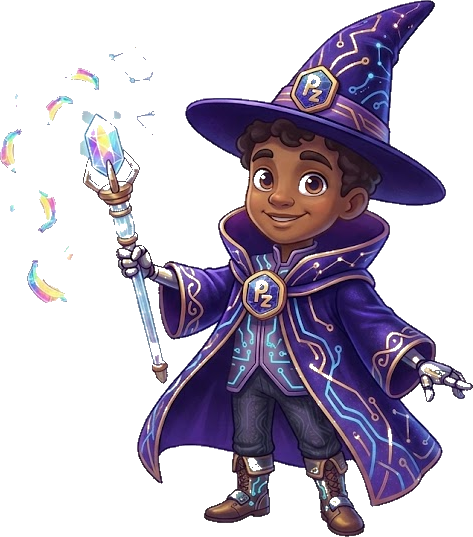
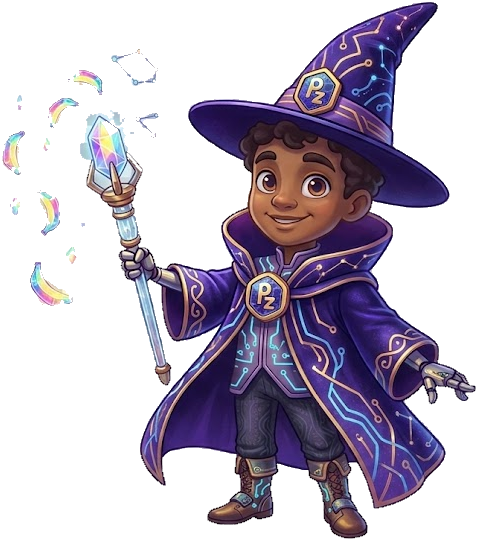
Add Archimage multi-answer validation, UI tweaks and asset fixes
- Accept all grammatically correct combinations in Archimage level
  using agreement groups (subject/object validated independently)
- Replace Playfair Display font with Fredoka One for playful title
- Clean wizard.png: remove checkerboard background, preserve full staff
- Hide wizard character, make cat static and reposition on barrel
- Adjust cauldron sparkle/explode image sizes

diff --git a/script.js b/script.js
@@ -289,6 +289,21 @@ const EXERCISES = [
       { choices: ["une", "un", "des", "le"], correct: "une" },
       { choices: ["potion", "potions", "poison", "potionnes"], correct: "potion" },
     ],
+    agreementGroups: [
+      { slots: [0, 1, 2], valid: [
+        ["La", "sorcière", "prépare"],
+        ["Le", "sorcier", "prépare"],
+        ["Les", "sorcières", "préparent"],
+        ["Les", "sorciers", "préparent"],
+        ["Un", "sorcier", "prépare"],
+      ]},
+      { slots: [3, 4], valid: [
+        ["une", "potion"],
+        ["un", "poison"],
+        ["des", "potions"],
+        ["le", "poison"],
+      ]},
+    ],
     successMsg: "La sorcière te félicite ! 🧙♀✨",
     failMsg: "La potion tourne au vinaigre ! 💥",
   },
@@ -303,6 +318,18 @@ const EXERCISES = [
       { choices: ["des", "de", "les", "une"], correct: "des" },
       { choices: ["flammes", "flamme", "flammés", "flammées"], correct: "flammes" },
     ],
+    agreementGroups: [
+      { slots: [0, 1, 2], valid: [
+        ["Le", "dragon", "crache"],
+        ["Les", "dragons", "crachent"],
+        ["Des", "dragons", "crachent"],
+      ]},
+      { slots: [3, 4], valid: [
+        ["des", "flammes"],
+        ["les", "flammes"],
+        ["une", "flamme"],
+      ]},
+    ],
     successMsg: "Les dragons t'acclament ! 🐉🔥",
     failMsg: "Les dragons sont déçus ! 💥",
   },
@@ -316,6 +343,15 @@ const EXERCISES = [
       { choices: ["chat", "chatte", "chats", "chattes"], correct: "chat" },
       { choices: ["noir", "noire", "noirs", "noires"], correct: "noir" },
       { choices: ["dort", "dorment", "dors", "dormons"], correct: "dort" },
+    ],
+    agreementGroups: [
+      { slots: [0, 1, 2, 3, 4], valid: [
+        ["Le", "petit", "chat", "noir", "dort"],
+        ["La", "petite", "chatte", "noire", "dort"],
+        ["Les", "petits", "chats", "noirs", "dorment"],
+        ["Les", "petites", "chattes", "noires", "dorment"],
+        ["Un", "petit", "chat", "noir", "dort"],
+      ]},
     ],
     successMsg: "Le chat ronronne de bonheur ! 🐱💤",
     failMsg: "Le chat s'enfuit ! 💥",
@@ -332,6 +368,19 @@ const EXERCISES = [
       { choices: ["des", "de", "les", "une"], correct: "des" },
       { choices: ["potions", "potion", "potionnes", "potionnés"], correct: "potions" },
     ],
+    agreementGroups: [
+      { slots: [0, 1, 2, 3], valid: [
+        ["La", "grande", "sorcière", "prépare"],
+        ["Le", "grand", "sorcier", "prépare"],
+        ["Les", "grandes", "sorcières", "préparent"],
+        ["Les", "grands", "sorciers", "préparent"],
+      ]},
+      { slots: [4, 5], valid: [
+        ["des", "potions"],
+        ["les", "potions"],
+        ["une", "potion"],
+      ]},
+    ],
     successMsg: "Le cercle de sorcières applaudit ! 🧙♀🧙♀✨",
     failMsg: "Le cercle est rompu ! 💥",
   },
@@ -347,6 +396,21 @@ const EXERCISES = [
       { choices: ["préparé", "préparée", "préparés", "préparées"], correct: "préparé" },
       { choices: ["une", "un", "des", "le"], correct: "une" },
       { choices: ["potion", "potions", "poison", "potionnes"], correct: "potion" },
+    ],
+    agreementGroups: [
+      { slots: [0, 1, 2, 3, 4], valid: [
+        ["La", "belle", "sorcière", "a", "préparé"],
+        ["Le", "beau", "sorcier", "a", "préparé"],
+        ["Les", "belles", "sorcières", "ont", "préparé"],
+        ["Les", "beaux", "sorciers", "ont", "préparé"],
+        ["Un", "beau", "sorcier", "a", "préparé"],
+      ]},
+      { slots: [5, 6], valid: [
+        ["une", "potion"],
+        ["un", "poison"],
+        ["des", "potions"],
+        ["le", "poison"],
+      ]},
     ],
     successMsg: "Tu es un véritable Archimage ! 👑🎉",
     failMsg: "L'incantation suprême a échoué ! 💥",
@@ -1115,14 +1179,26 @@ function checkAllFilled() {
   btnValidate.disabled = !allFilled;
 }
 
+function isGroupValid(group, selections) {
+  const selected = group.slots.map((i) => selections[i]);
+  return group.valid.some((combo) =>
+    combo.every((val, j) => val === selected[j])
+  );
+}
+
 function validateAnswer() {
   const ex = exercises[currentExIndex];
-  let correct = true;
-  ex.slots.forEach((slot, i) => {
-    if (!slot.fixed && selections[i] !== slot.correct) {
-      correct = false;
-    }
-  });
+  let correct;
+  if (ex.agreementGroups) {
+    correct = ex.agreementGroups.every((g) => isGroupValid(g, selections));
+  } else {
+    correct = true;
+    ex.slots.forEach((slot, i) => {
+      if (!slot.fixed && selections[i] !== slot.correct) {
+        correct = false;
+      }
+    });
+  }
 
   if (correct) {
     score++;
@@ -1154,7 +1230,16 @@ function validateAnswer() {
     sentenceBuilder.querySelectorAll(".slot.choice").forEach((el) => {
       const idx = parseInt(el.dataset.slotIndex);
       const slot = ex.slots[idx];
-      if (selections[idx] === slot.correct) {
+      let slotOk;
+      if (correct) {
+        slotOk = true;
+      } else if (ex.agreementGroups) {
+        const group = ex.agreementGroups.find((g) => g.slots.includes(idx));
+        slotOk = group ? isGroupValid(group, selections) : selections[idx] === slot.correct;
+      } else {
+        slotOk = selections[idx] === slot.correct;
+      }
+      if (slotOk) {
         el.style.borderColor = "var(--accent-green)";
         el.style.background = "rgba(74, 222, 128, 0.2)";
         el.style.color = "var(--accent-green)";

diff --git a/style.css b/style.css
@@ -28,7 +28,7 @@
   --card-bg: rgba(60, 35, 15, 0.75);
   --card-border: #8b6b42;
   --font-body: "Poppins", sans-serif;
-  --font-title: "Playfair Display", serif;
+  --font-title: "Fredoka One", cursive;
 }
 
 html,
@@ -67,12 +67,14 @@ body {
 }
 
 #cauldron-2d.cauldron-success {
+  width: clamp(270px, 37vw, 480px);
   filter: drop-shadow(0 8px 20px rgba(0,0,0,0.5))
           drop-shadow(0 0 25px rgba(68,255,136,0.8))
           drop-shadow(0 0 50px rgba(68,255,136,0.4));
 }
 
 #cauldron-2d.cauldron-fail {
+  width: clamp(340px, 46vw, 600px);
   filter: drop-shadow(0 8px 20px rgba(0,0,0,0.5))
           drop-shadow(0 0 25px rgba(255,34,34,0.8))
           drop-shadow(0 0 50px rgba(255,34,34,0.4));
@@ -101,27 +103,19 @@ body {
 
 /* ===== 2D Characters (z-index 2) ===== */
 #wizard-2d {
-  position: fixed;
-  right: 18%;
-  bottom: 3%;
-  height: clamp(320px, 55vh, 550px);
-  width: auto;
-  z-index: 2;
-  pointer-events: none;
-  filter: drop-shadow(0 4px 12px rgba(0,0,0,0.5));
-  animation: characterBreathe 4s ease-in-out infinite;
+  display: none;
 }
 
 #cat-2d {
   position: fixed;
-  left: 20%;
-  bottom: 3%;
-  height: clamp(200px, 35vh, 380px);
+  left: 1%;
+  bottom: 48%;
+  height: clamp(160px, 28vh, 300px);
   width: auto;
   z-index: 2;
   pointer-events: none;
   filter: drop-shadow(0 4px 12px rgba(0,0,0,0.5));
-  animation: characterBreathe 4s ease-in-out infinite 1s;
+  /* no animation — static */
 }
 
 @keyframes characterBreathe {
@@ -774,16 +768,10 @@ body {
     height: 28px;
   }
 
-  /* Scale down characters on mobile */
-  #wizard-2d {
-    height: clamp(180px, 35vh, 280px);
-    right: 10%;
-    bottom: 2%;
-  }
-
+  /* Scale down cat on mobile */
   #cat-2d {
-    height: clamp(120px, 22vh, 200px);
-    left: 12%;
-    bottom: 2%;
+    height: clamp(100px, 18vh, 160px);
+    left: 4%;
+    bottom: 40%;
   }
 }

diff --git a/index.html b/index.html
@@ -7,7 +7,7 @@
     <link rel="preconnect" href="https://fonts.googleapis.com" />
     <link rel="preconnect" href="https://fonts.gstatic.com" crossorigin />
     <link
-      href="https://fonts.googleapis.com/css2?family=Playfair+Display:wght@700;900&family=Poppins:wght@400;600;700&display=swap"
+      href="https://fonts.googleapis.com/css2?family=Fredoka+One&family=Poppins:wght@400;600;700&display=swap"
       rel="stylesheet"
     />
     <link rel="stylesheet" href="style.css" />
